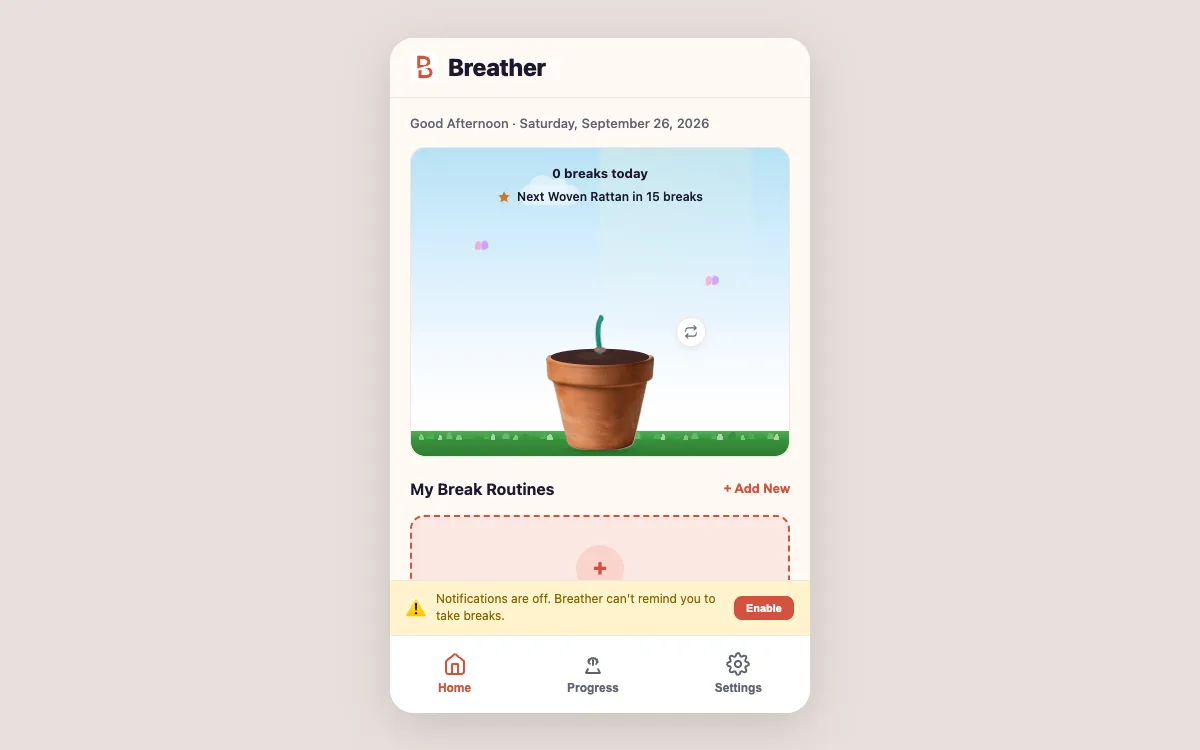
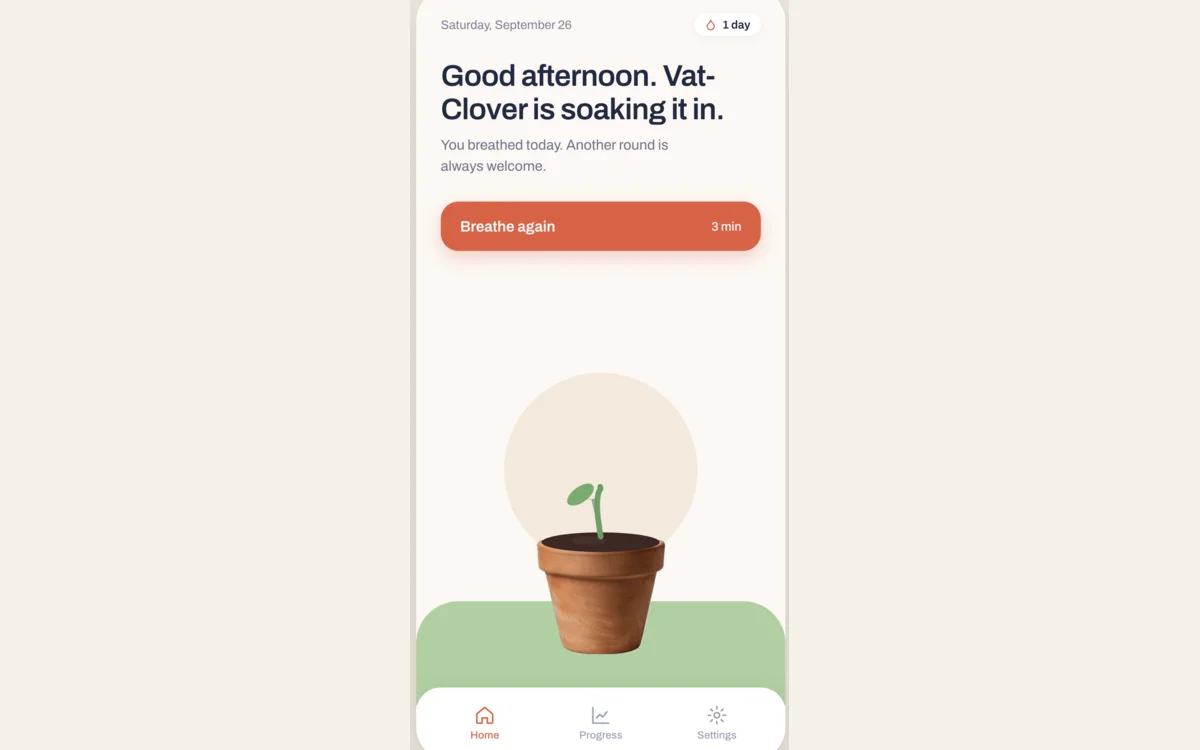
Update Breather portfolio card to match new home screen design
New screenshot shows named plant, streak tracking, and single
Breathe again CTA, replacing the old breaks-counter/routines layout.

Changed region(s): [[0.3083, 0.0, 0.7092, 1.0]]

diff --git a/src/components/Portfolio.tsx b/src/components/Portfolio.tsx
@@ -139,13 +139,13 @@ const projects = [
     title: 'Breather',
     category: 'apps',
     categoryLabel: 'Wellness App',
-    description: 'Gentle nudges to stretch, hydrate and rest your eyes through the workday, with a virtual plant that grows a new leaf every time you take a break. Free, private, no sign-up.',
+    description: 'A daily breathing break with a personality: name your plant, build a streak, and watch it grow with every session. One clear "Breathe again" CTA, no clutter. Free, private, no sign-up.',
     gradient: 'from-orange-500 to-red-500',
     url: 'https://breather.vattitude.ca',
     image: '/projects/breather.webp',
     tech: ['React', 'PWA', 'Chrome Extension'],
     metric: '1',
-    metricLabel: 'Leaf per Break',
+    metricLabel: 'Day Streak',
   },
 ]
 
